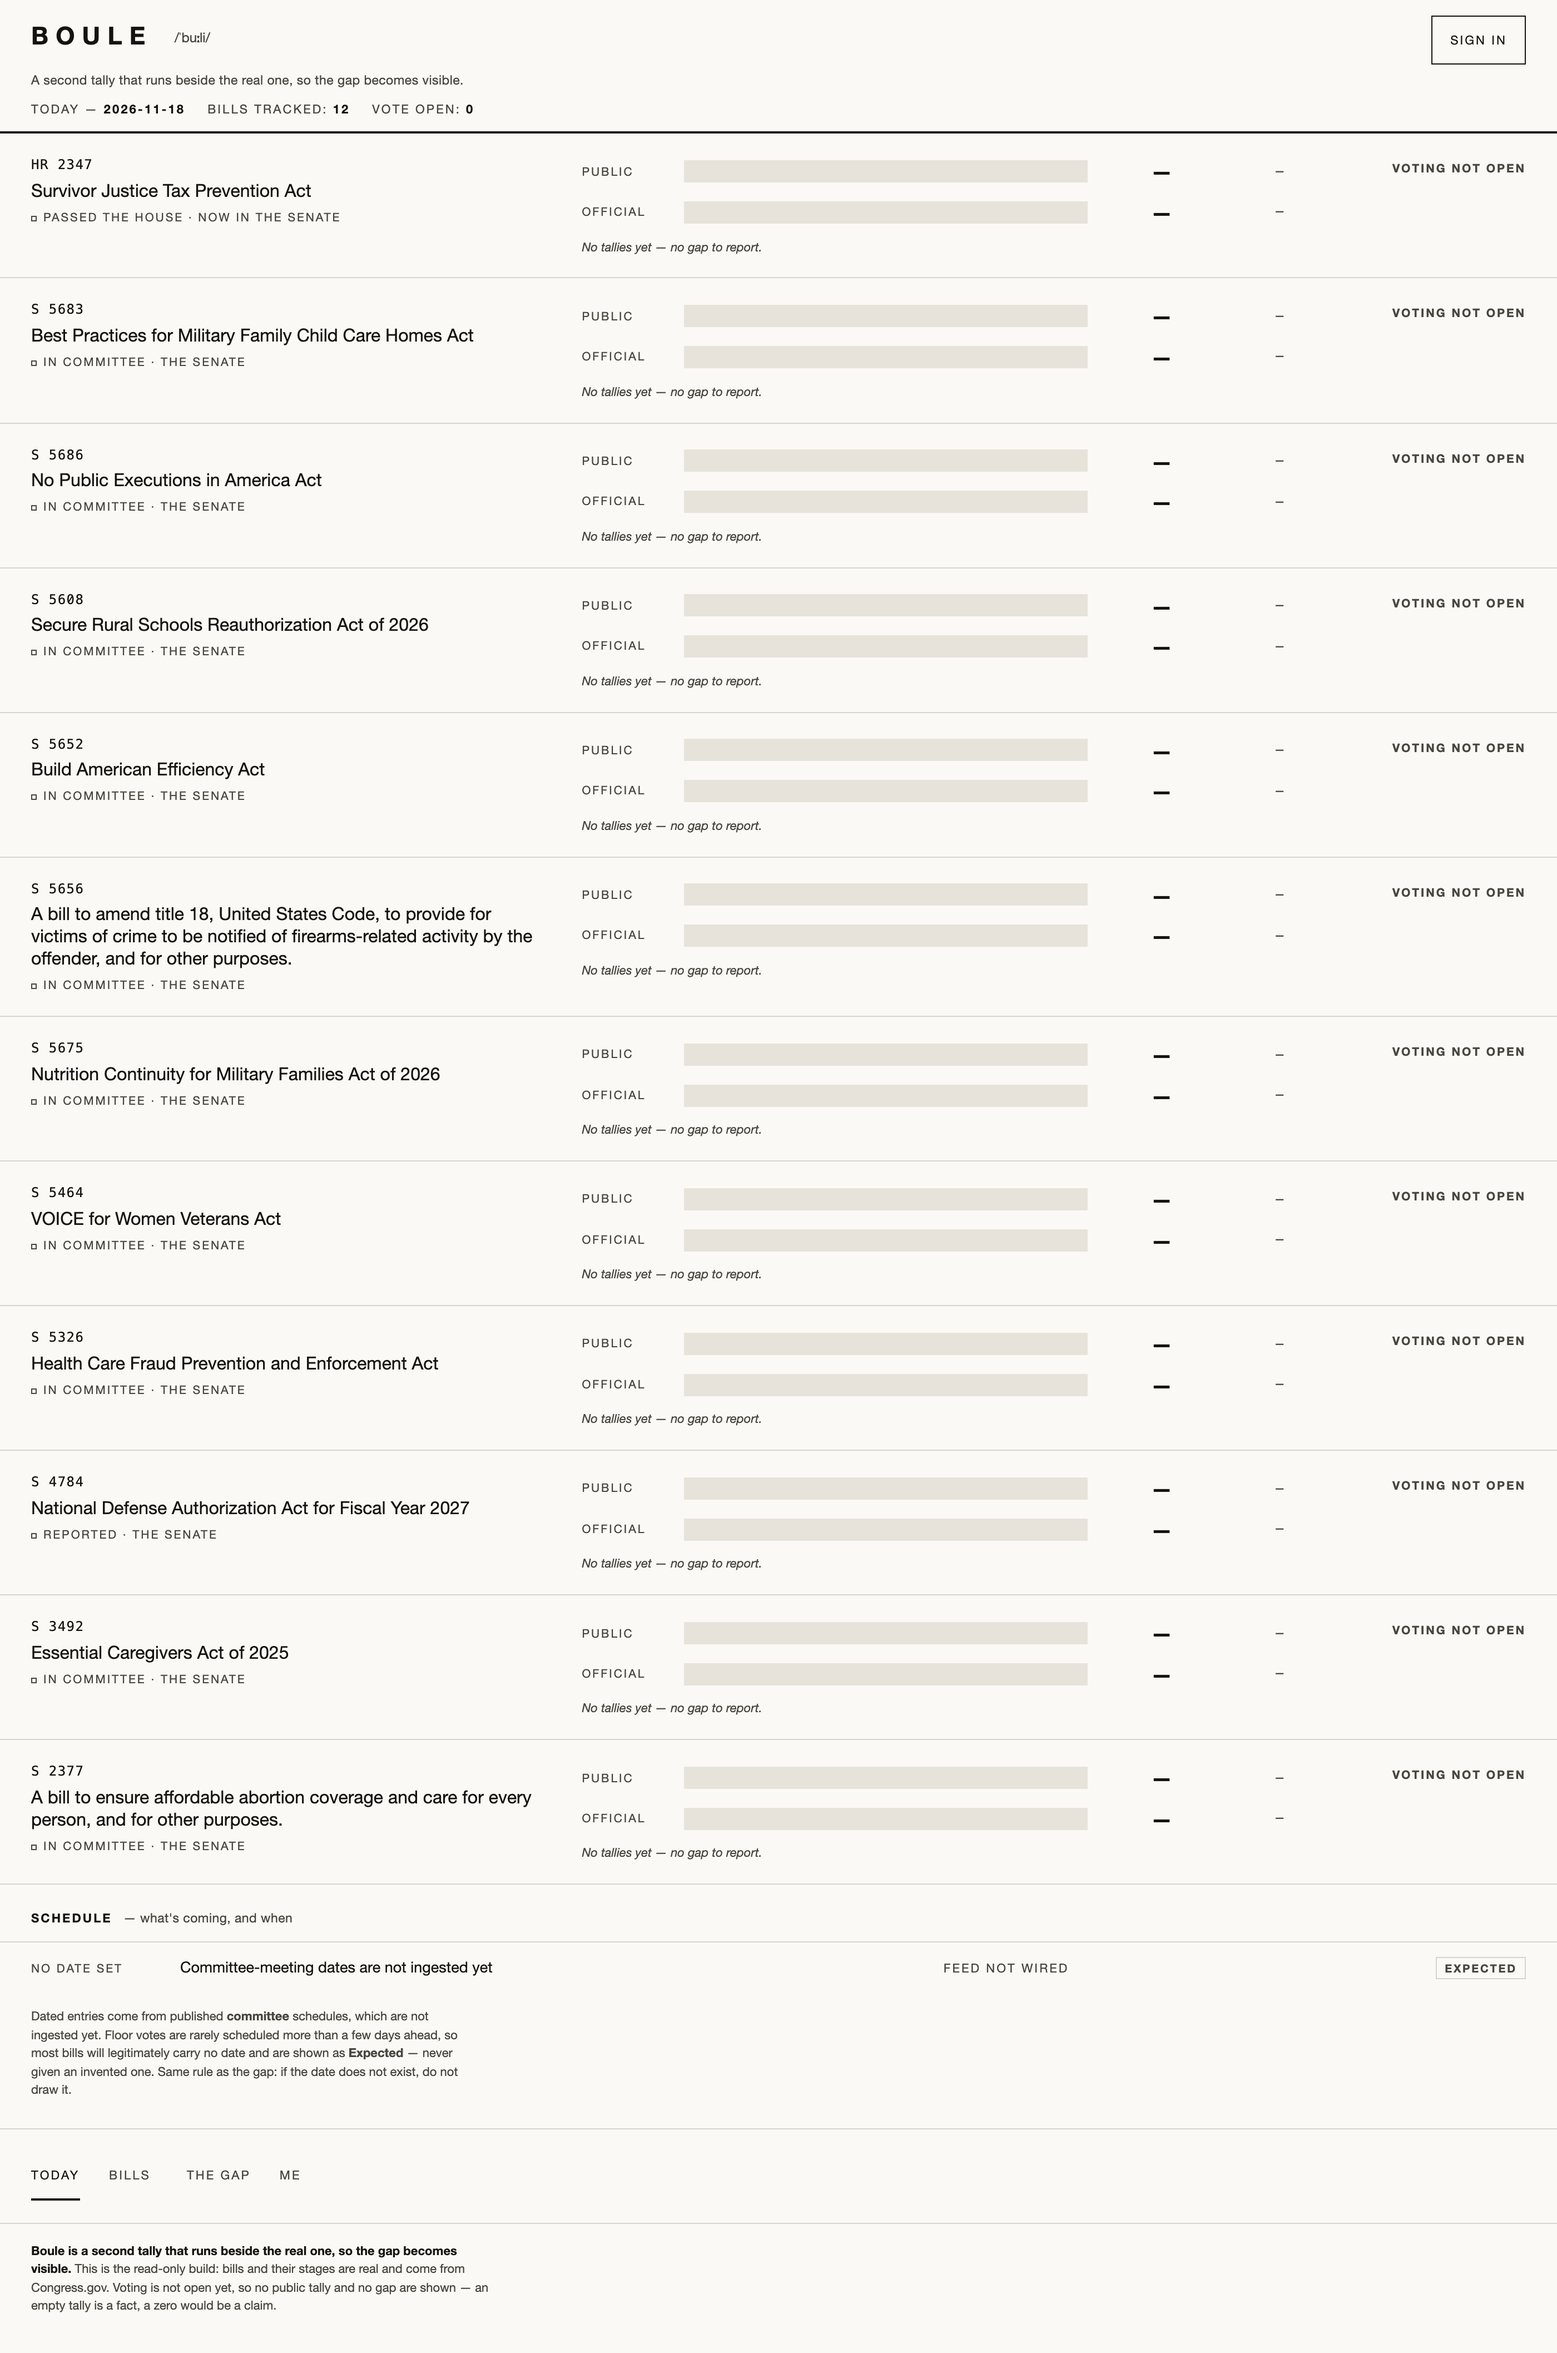
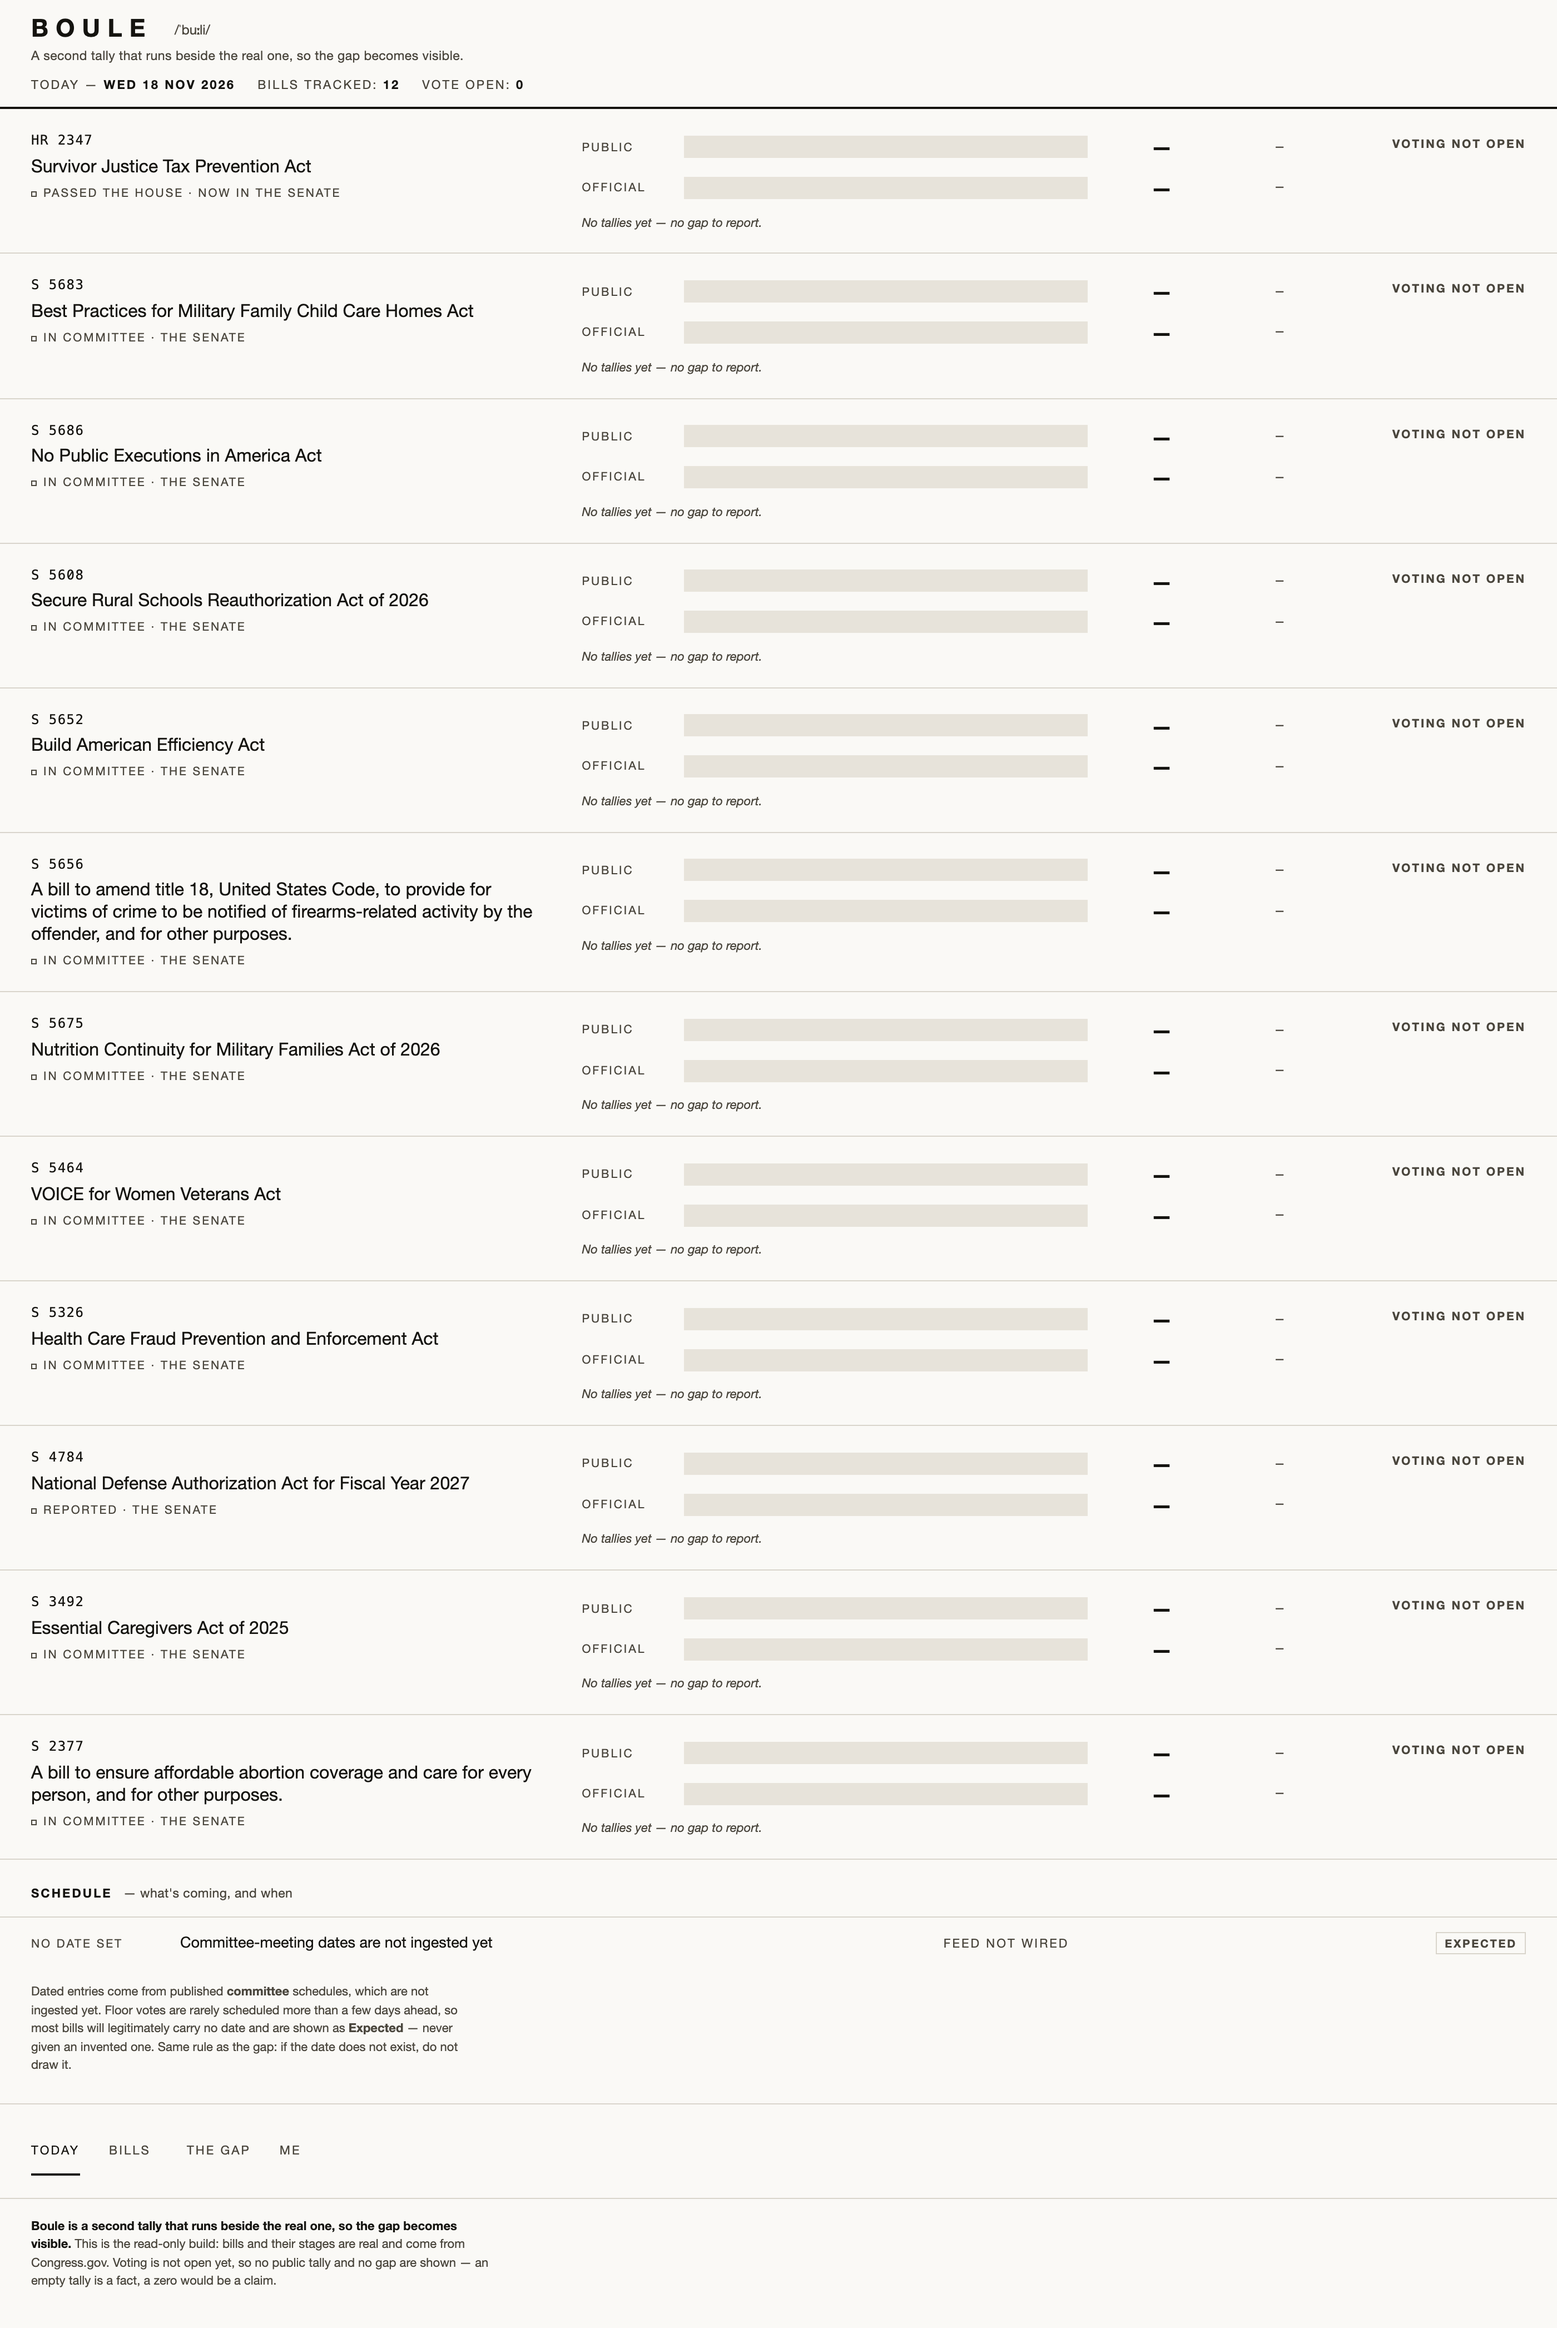
fix(web): remove the sign-in control — it did nothing
`<button class="signin">Sign in</button>` had no route behind it: grep for a
handler returned nothing. A control that does nothing is a lie, and this page's
entire argument is that it does not claim what it cannot show. It returns at S5
with something to do. The mock still has it; the served page does not.

ROADMAP: two ordering corrections, both forced by verified constraints.

1. HTTPS must precede S5. Google OAuth redirect URIs must use HTTPS and hosts
   cannot be raw IPs (localhost is the only exemption), so neither
   http://mbp9.tail24a97e.ts.net:8123 nor 100.109.45.107 can ever be a redirect
   URI. S5 is untestable off-localhost until tailscale cert or a real domain
   provides TLS, so the HTTPS step leaves S6 and becomes S5's prerequisite.

2. S3 must record vote provenance from its first row, even if the only tier
   available then is `anonymous`. Otherwise S5 creates a body of votes that cannot
   be attributed, at exactly the moment the tally starts to matter.

diff --git a/web/render.py b/web/render.py
@@ -87,12 +87,17 @@ def page(title: str, body: str, current_nav: str = "Today") -> str:
 
 
 def masthead(dateline_bits: list[str]) -> str:
+    """No sign-in control until sign-in exists.
+
+    A button that does nothing is a lie, and this page's whole argument is that it
+    does not claim things it cannot show. The mock had one; the served page does
+    not, until S5 gives it something to do.
+    """
     tail = "".join(f"<span>{b}</span>" for b in dateline_bits)
     return f"""<header class="doc">
   <div class="masthead">
     <h1 class="wordmark">Boule <span class="pron" aria-hidden="true">/ˈbuːli/</span></h1>
     <p class="tag">A second tally that runs beside the real one, so the gap becomes visible.</p>
-    <button class="signin">Sign in</button>
   </div>
   <div class="dateline">{tail}</div>
 </header>

diff --git a/ROADMAP.md b/ROADMAP.md
@@ -99,9 +99,25 @@ pass/fail test, not a demo. No stage starts until the previous gate passes.
 | **S2** | front page renders from the DB, not from HTML | edit a DB row → the page changes **without touching HTML** | ✅ **done — gate passed** |
 | **S3** | ballot box: append-only `votes`, `POST /api/vote`, server-side stamp, keyed `(bill, version)` | changing a vote **adds a row and never mutates the old one**; no `UPDATE`/`DELETE` can run (DB trigger) | ⬜ |
 | **S4** | gap computed from public ⨯ official | the gap equals `public% − official%` on a known bill; a bill with **no** official vote renders `—`, never `0` | ⬜ |
-| **S5** | identity + one-per-person | two accounts cannot double-vote the same `(bill, version)`; provenance tier visible | ⬜ |
-| **S6** | installable PWA (tailscale cert, manifest, service worker, icons) | "Add to Home Screen" **installs** — opens without browser chrome | ⬜ |
+| **S5** | identity + one-per-person | two accounts cannot double-vote the same `(bill, version)`; provenance tier visible | ⬜ **needs HTTPS first** |
+| **S6** | installable PWA (manifest, service worker, icons) | "Add to Home Screen" **installs** — opens without browser chrome | ⬜ |
 | **S7** | public deploy (VPS + domain) | first non-tailnet visitor can vote | ⬜ |
+
+### Two ordering corrections, both forced by verified constraints
+
+**1. HTTPS must move ahead of S5.** Google OAuth redirect URIs *must* use HTTPS, and hosts
+**cannot be raw IP addresses** — localhost is the only exemption. So neither
+`http://mbp9.tail24a97e.ts.net:8123` nor `100.109.45.107` can ever be a redirect URI, and S5
+cannot be tested anywhere except localhost until `tailscale cert` (or a real domain) provides
+TLS. The HTTPS step therefore leaves S6 and becomes a prerequisite of S5.
+
+**2. S3 must record provenance from its first row.** Even if the only tier available at S3 is
+`anonymous`, the column has to exist from the start. Otherwise S5 arrives and there is a body of
+already-cast votes that cannot be attributed — and they would have to be discarded or
+retro-labelled, right when the tally is starting to matter.
+
+**Consequence for the exit criteria:** the phase exit asks for *"a real person can open it, sign
+in, vote on a real bill, and see both tallies"* — so sign-in is part of the minimum, not a nicety.
 
 **Order rationale:** each stage is falsifiable on its own and none depends on a later one. S1–S2
 give an honest read-only site before a single vote exists — the site is useful with zero voters.
